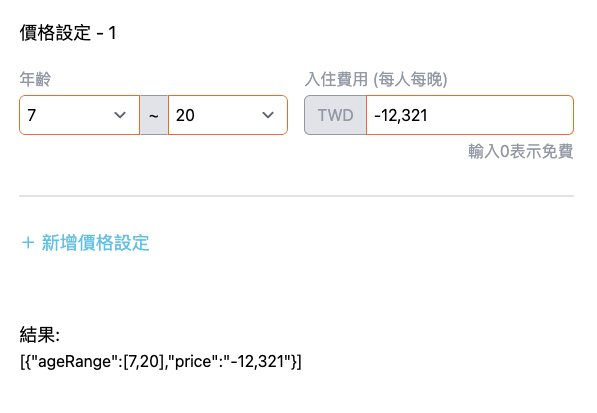
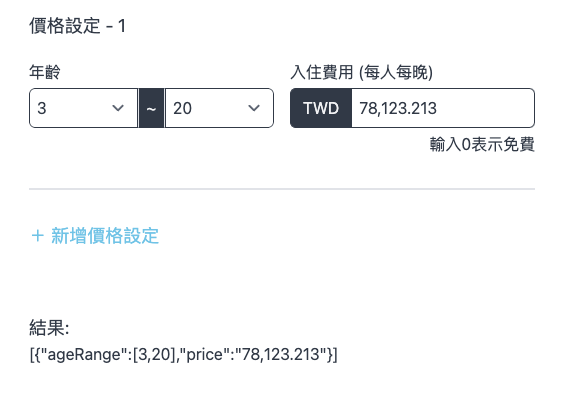
fine tune UIs

diff --git a/src/components/Navigation.js b/src/components/Navigation.js
@@ -8,29 +8,34 @@ const Navigation = () => {
   const handleOnClick = () => {
     setIsOpen(!isOpen);
   };
+
+  const renderList = ['priceInput', 'ageGroupSelect', 'ageGroupPriceList'].map(
+    (item) => (
+      <li
+        key={item}
+        className='hover:text-gray-100 hover:bg-gray-700 mb-4 sm:mb-0 flex-1 h-full w-full rounded-md transition-all duration-100'
+        onClick={() => setIsOpen(false)}
+      >
+        <Link
+          className='w-full h-full flex items-center justify-center'
+          to={`#${item}`}
+          smooth
+        >
+          {item.charAt(0).toUpperCase() + item.slice(1)}
+        </Link>
+      </li>
+    )
+  );
+
   return (
-    <header className='App-header fixed top-0 bg-primary flex items-center h-12 px-8 w-full '>
+    <header className='App-header fixed top-16 left-0 right-0 mx-auto bg-gray-100 flex items-center lg:w-3/5 w-4/5 h-12 rounded-md shadow-lg'>
       {/* Menu */}
       <ul
-        className={`flex sm:justify-around justify-center flex-col sm:flex-row items-center absolute sm:static left-0 bg-primary sm:h-6 h-[40vh] w-full transition-all duration-300 ease-out ${
-          isOpen ? 'top-12' : '-top-[100vh] sm:top-0'
+        className={`flex flex-col sm:flex-row items-center absolute sm:static left-0 sm:h-12 h-[50vh] w-full transition-all duration-300 ease-out sm:bg-inherit bg-gray-200 sm:shadow-none shadow-lg rounded-md ${
+          isOpen ? 'top-14' : '-top-[100vh] sm:top-0'
         } `}
       >
-        <li className='hover:text-gray-500 mb-4 sm:mb-0'>
-          <Link to='#priceInput' smooth>
-            PriceInput
-          </Link>
-        </li>
-        <li className='hover:text-gray-500 mb-4 sm:mb-0'>
-          <Link to='#ageGroupSelect' smooth>
-            AgeGroupSelect
-          </Link>
-        </li>
-        <li className='hover:text-gray-500'>
-          <Link to='#ageGroupPriceList' smooth>
-            AgeGroupPriceList
-          </Link>
-        </li>
+        {renderList}
       </ul>
       {/* Menu */}
       <Hamburger isOpen={isOpen} handleOnClick={handleOnClick} />

diff --git a/src/components/PriceInput.js b/src/components/PriceInput.js
@@ -26,21 +26,21 @@ const PriceInput = ({ index, callback }) => {
     <div>
       <InputLabel title='入住費用 (每人每晚)' />
       <div className='flex rounded-md'>
-        <span className='inline-flex items-center rounded-l-md border border-r-0 border-gray-400 bg-gray-200 text-gray-400 px-3'>
+        <span className='inline-flex items-center rounded-l-md border border-gray-700 border-r-0 bg-gray-700 text-gray-100 px-3'>
           TWD
         </span>
         <input
           type='text'
           name='priceInput'
           data-testid='priceInput'
-          className='block w-full p-2 rounded-none rounded-r-md border-0 ring-1 ring-orange ring-inset focus:ring-2 focus:ring-inset focus:ring-orange outline-0 placeholder:text-gray-200'
+          className='block w-full p-2 rounded-none rounded-r-md border-0 ring-1 ring-gray-700 ring-inset focus:ring-2 focus:ring-inset focus:ring-primary outline-0 placeholder:text-gray-200'
           placeholder='100'
           onChange={handleOnChange}
           value={price}
         />
       </div>
       {error && <ErrorMessage content={error} />}
-      <p className='text-end text-gray-400 mt-1'>輸入0表示免費</p>
+      <p className='text-end mt-1'>輸入0表示免費</p>
     </div>
   );
 };

diff --git a/src/components/AgeGroupSelect.js b/src/components/AgeGroupSelect.js
@@ -28,7 +28,7 @@ const SelectInputs = ({ name, value, handleOnChange, options }) => {
       onChange={handleOnChange}
       className={`block w-full p-2 rounded-none ${
         name === 'startAge' ? 'rounded-l-md' : 'rounded-r-md'
-      } border-0 ring-1 ring-orange ring-inset focus:ring-2 focus:ring-inset focus:ring-orange outline-0`}
+      } border-0 ring-1 ring-gray-700 ring-inset focus:ring-2 focus:ring-inset focus:ring-primary outline-0`}
     >
       {options}
     </select>
@@ -66,7 +66,7 @@ const AgeGroupSelect = ({ index, error, callback }) => {
           handleOnChange={handleStartAge}
           options={startOptions}
         />
-        <div className='bg-gray-200 border border-y-gray-400 self-stretch flex items-center justify-center w-16'>
+        <div className='bg-gray-700 border border-y-gray-700 self-stretch flex items-center justify-center w-16 text-gray-100'>
           <span>~</span>
         </div>
         <SelectInputs

diff --git a/src/App.js b/src/App.js
@@ -1,11 +1,16 @@
 import { BrowserRouter } from 'react-router-dom';
 import Navigation from './components/Navigation';
 import Tasks from './components/Tasks';
+import ay_logo from './assets/ay_logo.svg';
 
 function App() {
   return (
     <BrowserRouter>
-      <div className='App max-w-7xl mx-auto'>
+      <div className='App max-w-7xl mx-auto text-gray-700'>
+        <div className='flex flex-col justify-center items-center h-screen'>
+          <img src={ay_logo} alt='logo' width='250' />
+          <h1>Pre-Test by 郭奕佐</h1>
+        </div>
         <Navigation />
         <Tasks />
       </div>

diff --git a/src/components/SectionContainer.js b/src/components/SectionContainer.js
@@ -2,7 +2,10 @@ import Title from './SectionTitle';
 
 const Section = ({ children, id, title }) => {
   return (
-    <section id={id} className='min-h-screen flex flex-col items-center py-16'>
+    <section
+      id={id}
+      className='min-h-screen flex flex-col items-center justify-center py-8'
+    >
       <Title title={title} />
       <div className='pt-4 md:w-3/5 w-4/5 mx-auto'>{children}</div>
     </section>

diff --git a/src/components/Hamburger.js b/src/components/Hamburger.js
@@ -1,6 +1,6 @@
 const Hamburger = ({ isOpen, handleOnClick }) => {
   return (
-    <div className='h-6 sm:hidden flex items-center'>
+    <div className='h-6 sm:hidden flex items-center pl-4'>
       <button
         onClick={handleOnClick}
         className='flex flex-col justify-center items-center group'

diff --git a/tailwind.config.js b/tailwind.config.js
@@ -5,10 +5,7 @@ module.exports = {
   theme: {
     extend: {
       colors: {
-        primary: '#64c9ec',
-        secondary: '#fcbc04',
-        light: '#74ccec',
-        orange: '#EE7214',
+        primary: '#74ccec',
       },
     },
   },

diff --git a/src/components/ErrorMessage.js b/src/components/ErrorMessage.js
@@ -1,6 +1,6 @@
 const ErrorMessage = ({ content }) => {
   return (
-    <div className='bg-red-100 text-orange rounded-sm p-1'>
+    <div className='bg-red-100 text-red-700 rounded-sm p-1'>
       <p>{content}</p>
     </div>
   );

diff --git a/src/components/InputLabel.js b/src/components/InputLabel.js
@@ -1,5 +1,5 @@
 const InputLabel = ({ title }) => {
-  return <label className='block mb-1 text-gray-400'>{title}</label>;
+  return <label className='block mb-1'>{title}</label>;
 };
 
 export default InputLabel;

diff --git a/README.md b/README.md
@@ -3,37 +3,51 @@
 <div align="center">
     <div>
         <h2>Price Input</h2>
-        <h3>Computer<h3>
+        <h3 align="start">Computer<h3>
         <p align="start">1</p>
-        <img src="./src/assets/priceInput.png" alt="" width="500">
+        <img src="./src/assets/priceInput.png" alt="" width="400">
         <p align="start">2</p>
-        <img src="./src/assets/priceInput2.png" alt="" width="500">
+        <img src="./src/assets/priceInput2.png" alt="" width="400">
         <p align="start">3</p>
-        <img src="./src/assets/priceInput3.png" alt="" width="500">
-        <h3>Mobile<h3>
-        <img src="./src/assets/priceInput_mobile.png" alt="" width="300">
+        <img src="./src/assets/priceInput3.png" alt="" width="400">
+        <h3 align="start">Mobile<h3>
+        <img src="./src/assets/priceInput_mobile.png" alt="" width="400">
     </div>
     <hr>
     <div>
         <h2>Age Group Select</h2>
-        <h3>Computer<h3>
+        <h3 align="start">Computer<h3>
         <p align="start">1</p>
-        <img src="./src/assets/ageSelect.png" alt="" width="500">
+        <img src="./src/assets/ageSelect.png" alt="" width="400">
         <p align="start">2</p>
-        <img src="./src/assets/ageSelect_option.png" alt="" width="500">
+        <p align="start">End age can only choose from 15 to 20 now<p>
+        <img src="./src/assets/ageSelect_option.png" alt="" width="400">
     </div>
     <hr>
     <div>
         <h2>Age Group Price List</h2>
-        <h3>Computer<h3>
+        <h3 align="start">Computer<h3>
         <p align="start">1</p>
-        <img src="./src/assets/list.png" alt="" width="500">
+        <img src="./src/assets/list.png" alt="" width="400">
         <p align="start">2</p>
-        <img src="./src/assets/list2.png" alt="" width="500">
+        <img src="./src/assets/list2.png" alt="" width="400">
         <p align="start">3</p>
-        <img src="./src/assets/list_multi.png" alt="" width="500">
-        <h3>Mobile<h3>
-        <img src="./src/assets/list_mobile.png" alt="" width="300">
+        <img src="./src/assets/list_multi.png" alt="" width="400">
+        <h3 align="start">Mobile<h3>
+        <img src="./src/assets/list_mobile.png" alt="" width="400">
+    </div>
+    <div>
+        <h2>Some other UIs</h2>
+        <h3 align="start">Computer<h3>
+        <p align="start">1</p>
+        <img src="./src/assets/hero.png" alt="" width="400">
+        <p align="start">2</p>
+        <img src="./src/assets/hero2.png" alt="" width="400">
+        <h3 align="start">Mobile<h3>
+        <p align="start">1</p>
+        <img src="./src/assets/hero_mobile.png" alt="" width="400">
+        <p align="start">2</p>
+        <img src="./src/assets/hero_mobile2.png" alt="" width="400">
     </div>
 </div>
 
